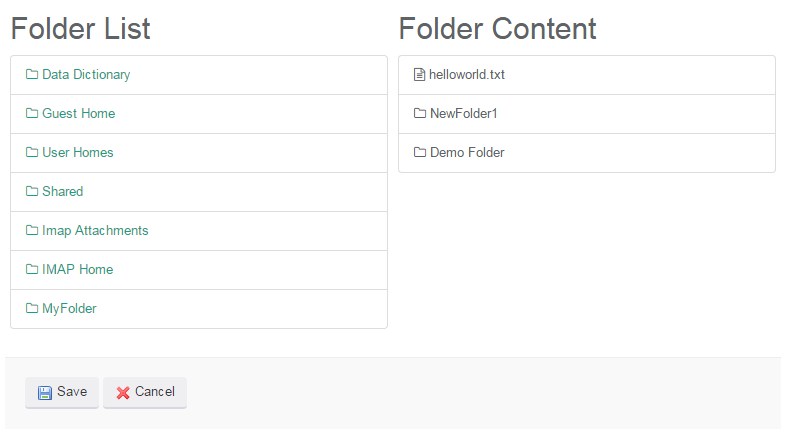
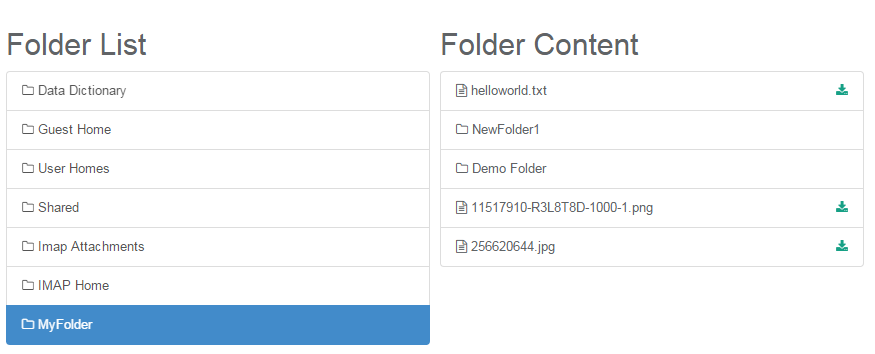
Basic support for document download

diff --git a/src/FolderList/widget/FolderList.js b/src/FolderList/widget/FolderList.js
@@ -100,11 +100,12 @@ require({
 
           function renderFolderEntries(data) {
             var output = $('.cmis-folder-list'),
-                ul = $('<ul class="list-group">');
+                //ul = $('<ul class="list-group">');
+                list = $('<div class="list-group">');
             output.empty();
             
             data.forEach(function (entry) {
-              var li = $('<li class="list-group-item">'),
+              var listItem = $('<a class="list-group-item" href="#">'),
                   props = entry.object.properties,
                   objType = props['cmis:objectTypeId'].value;
                   
@@ -116,21 +117,28 @@ require({
                   icon = $('<i class="fa fa-folder-o">'),
                   path = cmisRootFolder + props['cmis:path'].value;
               
-              var link = $('<a href="#">');
-              link.on('click', function (e) {
+              listItem.on('click', function (e) {
                 e.preventDefault();
+                                
+                var parentList = e.target.parentNode;
+                if (parentList && parentList.childNodes.length > 0) {
+                  for (var i = 0; i < parentList.childNodes.length; i++) {
+                    parentList.childNodes[i].classList.remove('active');
+                  }    
+                }
+                e.target.classList.add('active');
+                
                 var msg = { 'action': 'setFolder', 'value': path };
                 var emitter = document;
                 emitter.dispatchEvent(new CustomEvent('cmisMessage', { detail: msg }));
               });
               
-              link.append(icon);
-              link.append(' ' + name);
-              li.append(link);
-              ul.append(li);
+              listItem.append(icon);
+              listItem.append(' ' + name);
+              list.append(listItem);
             });
 
-            output.append(ul);
+            output.append(list);
           }
         
           $.ajax({

diff --git a/src/Hello World/widget/Hello World.js b/src/Hello World/widget/Hello World.js
@@ -112,7 +112,7 @@ require({
           alert('error getting cmis content');
         }
         
-        function renderFolderEntries(data) {
+        function renderFolderEntries(folderUrl, data) {
           var output = $('.cmis-folder-content'),
               ul = $('<ul class="list-group">');
           output.empty();
@@ -136,9 +136,16 @@ require({
             } else {
               icon = $('<i class="fa fa-file-o">');
             }
-            
+                                    
             li.append(icon);
             li.append(' ' + name);
+            
+            if (objType === 'cmis:document') {
+              var downloadLink = folderUrl + '/' + name;
+              var download = $('<a class="pull-right" target="_self" href="' + downloadLink + '" download="' + name +'"><i class="fa fa-download"></i></a>');
+              li.append(download);
+            }
+            
             ul.append(li);
           });
           
@@ -157,12 +164,13 @@ require({
               }
 
               if (repoId) {
+                var folderUrl = cmisServerUrl + '/alfresco/cmisbrowser/' + repoId + cmisRootFolder;
                 $.ajax({
-                  url: cmisServerUrl + '/alfresco/cmisbrowser/' + repoId + cmisRootFolder,
+                  url: folderUrl,
                   type: 'GET',
                   headers: headers,
                   success: function (data) {
-                    renderFolderEntries(data.objects || []);
+                    renderFolderEntries(folderUrl, data.objects || []);
                   },
                   error: handleError
                 });
